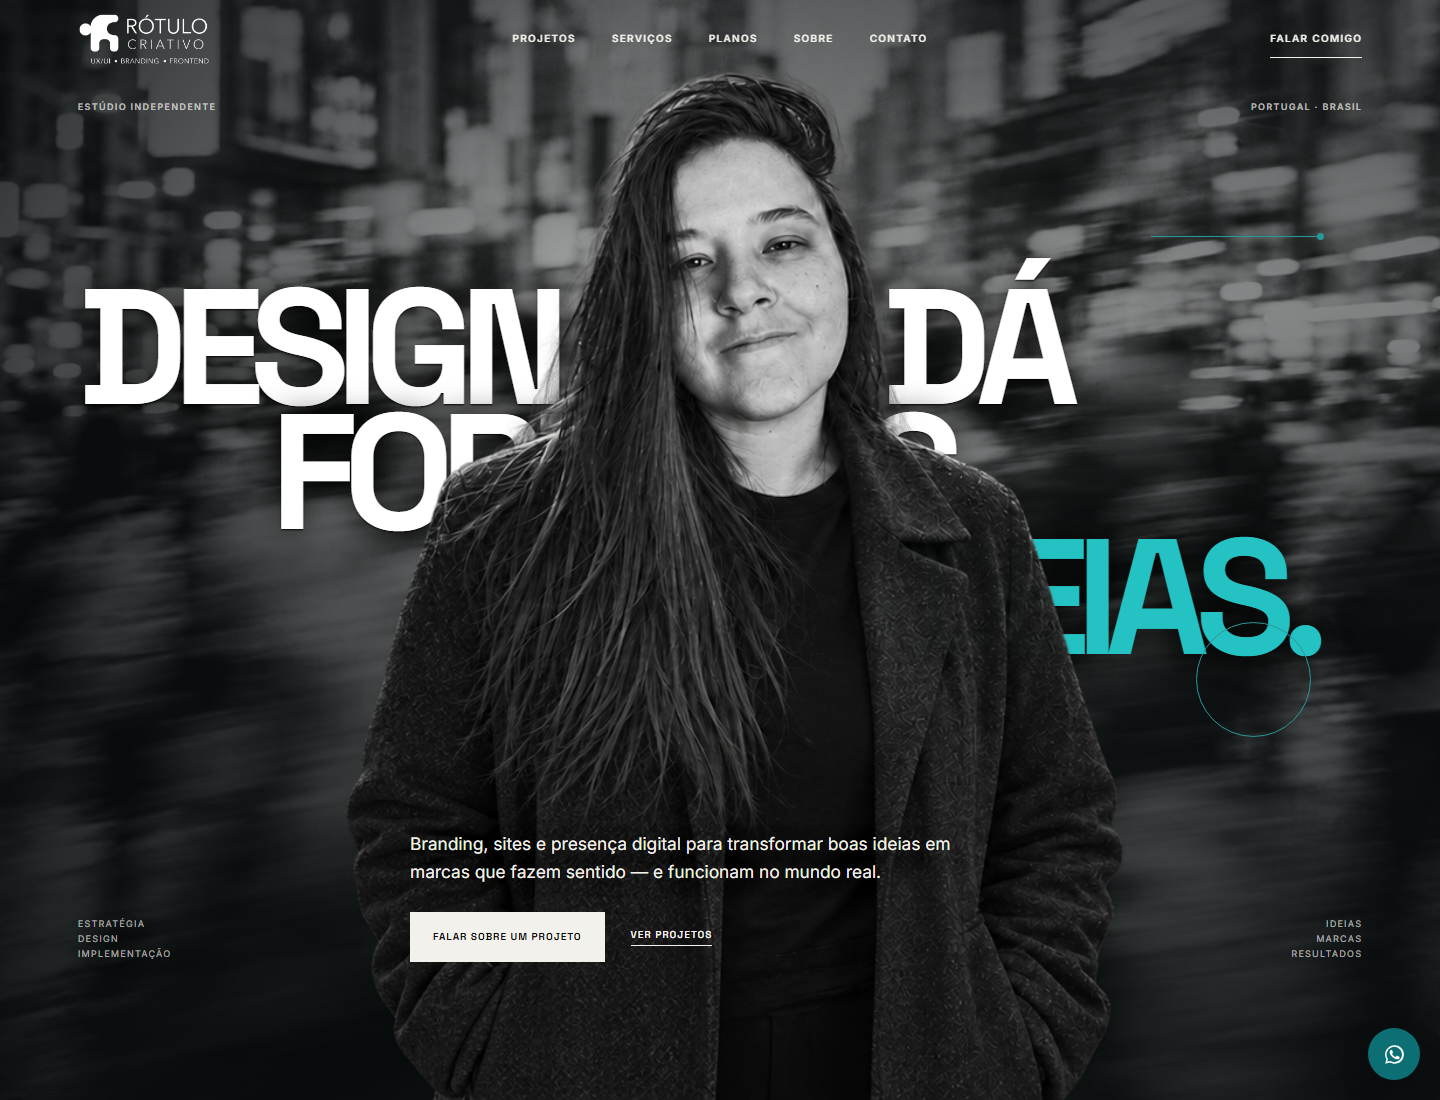
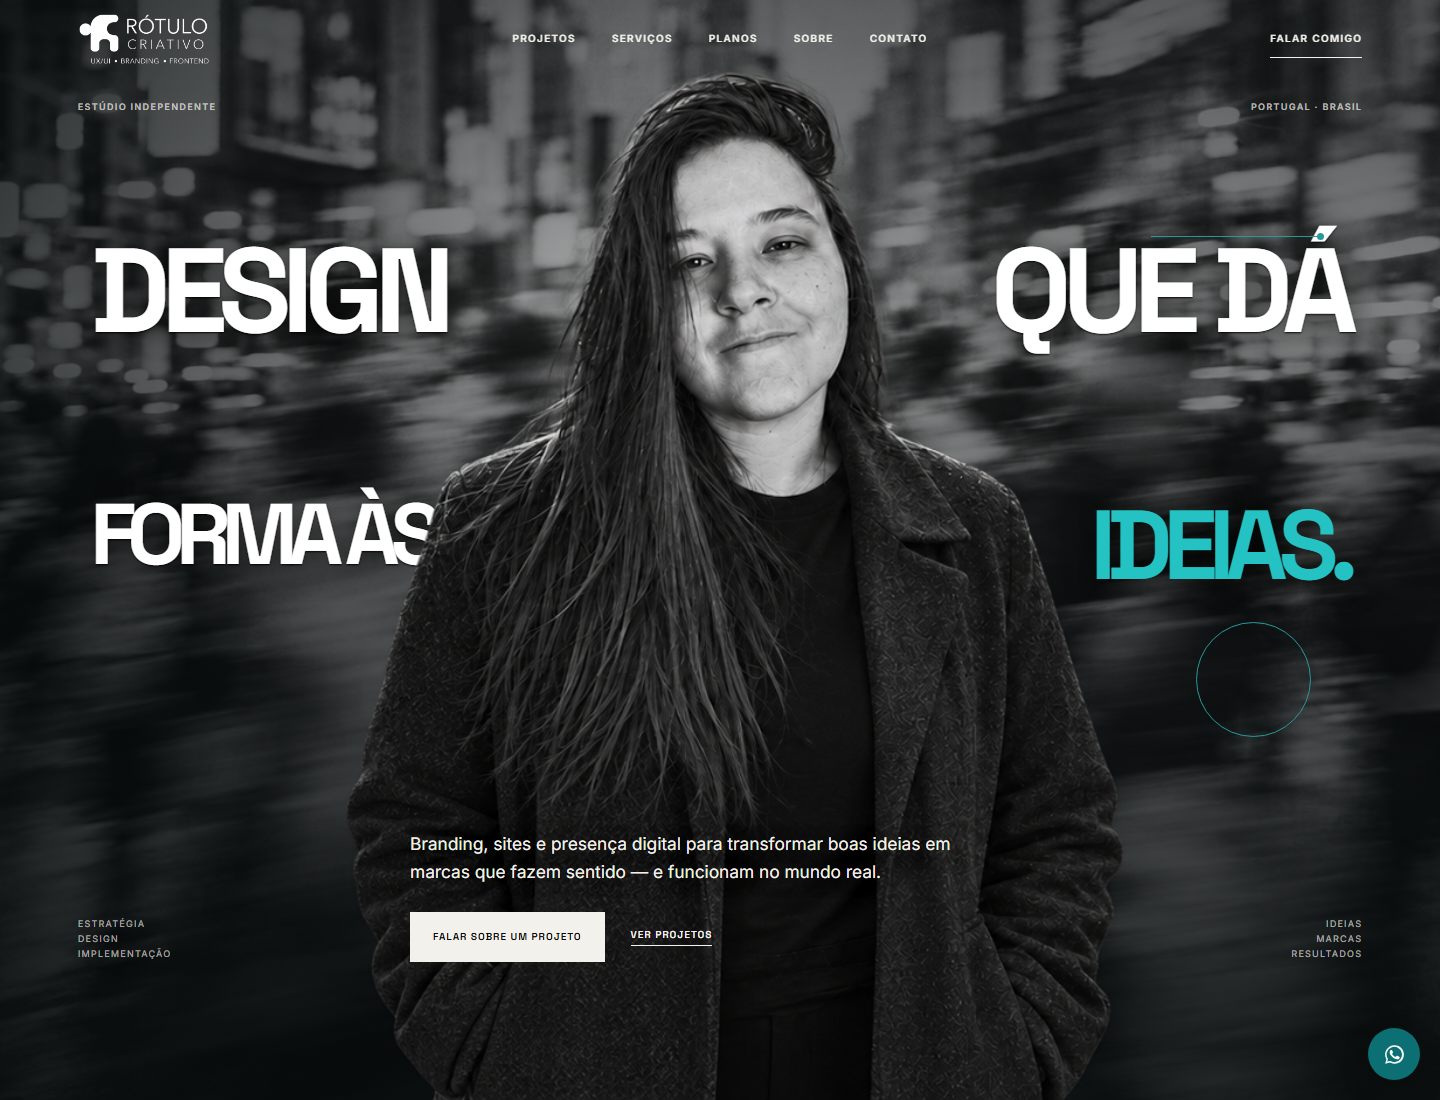
comit final

Changed region(s): [[0.0625, 0.2164, 0.4062, 0.5255], [0.5938, 0.1855, 0.9688, 0.4327], [0.7188, 0.4636, 0.9375, 0.6182]]

diff --git a/sections/01-home/home.css b/sections/01-home/home.css
@@ -21,7 +21,7 @@
 .home-title .home-line{position:absolute;margin:0}
 .home-line-design{top:18%;left:1%}
 .home-line-que{top:18%;right:1%}
-.home-line-forma{top:52%;left:4%}
-.home-title .home-accent{top:55%;right:1%;margin:0}
+.home-line-forma{top:54%;left:1%;font-size:.72em}
+.home-title .home-accent{top:55%;right:1%;margin:0;font-size:.82em}
 @media(max-width:1200px){.home-title{font-size:clamp(66px,9vw,108px)}.home-line-design{left:0}.home-line-que{right:0}.home-line-forma{left:2%}.home-title .home-accent{right:0}}
-@media(max-width:700px){.home-stage{align-items:flex-start}.home-title{position:relative;inset:auto;display:grid;grid-template-columns:1fr auto;gap:3px 12px;width:100%;padding-top:66px;font-size:clamp(42px,13vw,56px);line-height:.84;letter-spacing:-.07em}.home-title .home-line{position:static;margin:0}.home-line-design{grid-column:1}.home-line-que{grid-column:2;text-align:right}.home-line-forma{grid-column:1/-1}.home-title .home-accent{grid-column:2;justify-self:end}}
+@media(max-width:700px){.home-stage{align-items:flex-start}.home-title{position:relative;inset:auto;display:grid;grid-template-columns:1fr;gap:2px;width:100%;padding-top:28px;font-size:clamp(40px,12.5vw,52px);line-height:.84;letter-spacing:-.07em}.home-title .home-line{position:static;margin:0;font-size:1em}.home-line-design,.home-line-forma{justify-self:start}.home-line-que,.home-title .home-accent{justify-self:end;text-align:right}}
